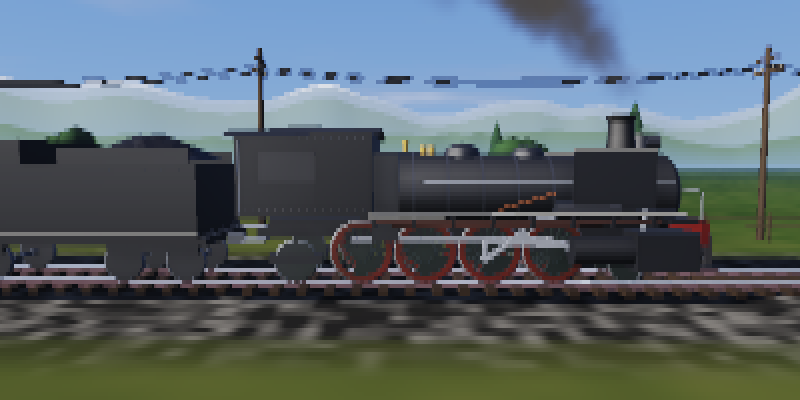
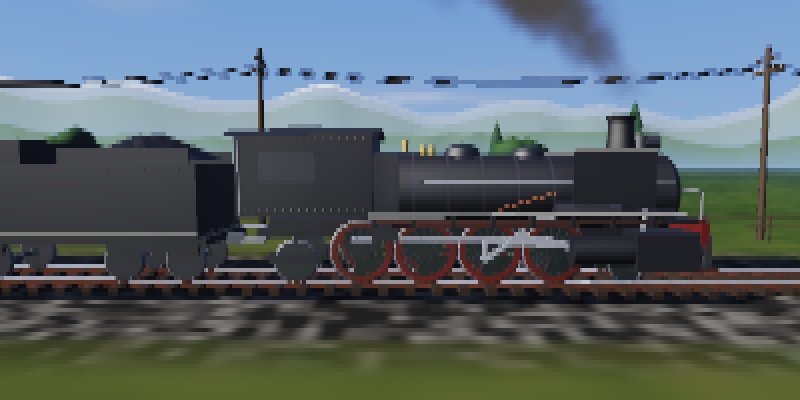
陰影を画素ごとに解く
頂点で 3 回だけ陰影を解いて間を線形補間していたので、
円筒に多角形の帯が浮き、ハイライトと空の映り込みが面の上を
直線的に伸びていた。ボイラーやドームが多面体に見える原因。

ラスタライザが運ぶ属性を「陰影付け済みの色」から
「ワールド座標・法線・素材色」に変え、画素ごとに陰影を解くようにした。
ボイラーは継ぎ目なく丸くなり、ドームには正しい位置にハイライトが乗る。

画素あたりの手間が増えるので、熱い経路を削った。

- 霧の太陽グローの powf(4) を積に
- 反射方向から空を引くときの powf(0.45) を sqrt に（見た目はほぼ同じ）
- ハイライトは指数が大きく、少し外れればほぼ 0 になるので、
  効かない画素では powf を呼ばない
- 遮蔽（AO）は縦横 1/2 の解像度で解いて補間して戻す。手間が 1/4 になり
  見た目は変わらない（もともとぼかしている）

頂点での陰影付けが無くなった分と合わせ、実測（pty、上限を外した状態）は
200x50 で 31fps → 35fps、100x28 で 75fps → 82fps、320x80 で 38fps → 41fps。
画質を上げながら速くなった。

Claude-Session: https://claude.ai/code/session_018PySZzENc57KMtrjRHMuV5

diff --git a/src/render.rs b/src/render.rs
@@ -145,11 +145,30 @@ fn reject(a: &[f32; 4], b: &[f32; 4], c: &[f32; 4]) -> bool {
         || (a[1] > a[3] && b[1] > b[3] && c[1] > c[3])
 }
 
-/// 頂点を切り出したクリップ空間の一時データ。
+/// クリップ空間の頂点。陰影は画素ごとに解くので、
+/// ここではワールド座標・法線・素材色をそのまま運ぶ。
 #[derive(Clone, Copy)]
 struct ClipV {
     pos: [f32; 4],
+    p: V3,
+    n: V3,
     c: V3,
+}
+
+impl ClipV {
+    #[inline]
+    fn lerp(&self, o: &ClipV, t: f32) -> ClipV {
+        let mut pos = [0.0f32; 4];
+        for k in 0..4 {
+            pos[k] = self.pos[k] + (o.pos[k] - self.pos[k]) * t;
+        }
+        ClipV {
+            pos,
+            p: self.p.lerp(o.p, t),
+            n: self.n.lerp(o.n, t),
+            c: self.c.lerp(o.c, t),
+        }
+    }
 }
 
 /// 陰影付け前に溜めておく三角形。法線の縮退はこの時点で解決済み。
@@ -179,13 +198,20 @@ struct Sprite {
     seed: f32,
 }
 
-/// 画面空間まで落とした三角形。色は 1/w を掛けた遠近補正済みの値。
+/// 画面空間まで落とした三角形。
+/// 属性は 1/w を掛けた空間で補間するため、あらかじめ掛けてある。
 #[derive(Clone, Copy)]
 struct ScreenTri {
     x: [f32; 3],
     y: [f32; 3],
     iw: [f32; 3],
+    /// ワールド座標。
+    p: [V3; 3],
+    /// 法線。
+    n: [V3; 3],
+    /// 素材色。
     c: [V3; 3],
+    mat: Material,
     y0: f32,
     y1: f32,
 }
@@ -423,9 +449,8 @@ impl Renderer {
         }
         let threads = threads();
 
-        // ---- 第 1 段：頂点の陰影付け → 画面空間の三角形へ。
-        let env = self.env;
-        let cam = self.cam_pos;
+        // ---- 第 1 段：近クリップして画面空間へ落とす。
+        // 陰影は画素ごとに解くので、ここでは座標と法線を運ぶだけ。
         let (w, h) = (self.w as f32, self.h as f32);
         let tris = std::mem::take(&mut self.tris);
         let chunk = tris.len().div_ceil(threads).max(1);
@@ -437,19 +462,12 @@ impl Renderer {
                 handles.push(scope.spawn(move || {
                     let mut out: Vec<ScreenTri> = Vec::with_capacity(part.len() + 4);
                     for t in part {
-                        let mut v = [ClipV { pos: [0.0; 4], c: V3::ZERO }; 3];
-                        for i in 0..3 {
-                            // 影の箱は地面用。物体自身に当てると自分の影で真っ黒になる。
-                            let lit =
-                                shade_of(&env, cam, t.p[i], t.n[i], t.c[i], &t.mat, 0.0);
-                            let d = t.p[i] - cam;
-                            let dist = d.len();
-                            v[i] = ClipV {
-                                pos: t.clip[i],
-                                c: fog_of(&env, lit, dist, d / dist.max(1e-6)),
-                            };
-                        }
-                        clip_and_project(&v, w, h, &mut out);
+                        let v = [
+                            ClipV { pos: t.clip[0], p: t.p[0], n: t.n[0], c: t.c[0] },
+                            ClipV { pos: t.clip[1], p: t.p[1], n: t.n[1], c: t.c[1] },
+                            ClipV { pos: t.clip[2], p: t.p[2], n: t.n[2], c: t.c[2] },
+                        ];
+                        clip_and_project(&v, w, h, &t.mat, &mut out);
                     }
                     out
                 }));
@@ -475,6 +493,8 @@ impl Renderer {
 
         let sw = self.w;
         let scr: &[ScreenTri] = &screen;
+        let env = self.env;
+        let cam = self.cam_pos;
         std::thread::scope(|scope| {
             let mut y0 = 0usize;
             let mut idx = 0usize;
@@ -487,10 +507,11 @@ impl Renderer {
                 y0 += band_h;
                 let list: &[u32] = if idx < bucket.len() { &bucket[idx] } else { &[] };
                 idx += 1;
+                let env = &env;
                 scope.spawn(move || {
                     let rows = cc.len() / sw;
                     for &i in list {
-                        raster_band(&scr[i as usize], cc, dd, sw, start, rows);
+                        raster_band(&scr[i as usize], cc, dd, sw, start, rows, env, cam);
                     }
                 });
             }
@@ -654,20 +675,27 @@ impl Renderer {
             depth[y * w + x]
         };
 
+        // 遮蔽はゆるやかにしか変わらないので、縦横 1/2 の解像度で解いて
+        // 最後に補間して戻す。見た目は変わらず手間は 1/4 になる。
+        let (aw, ah) = ((w / 2).max(1), (h / 2).max(1));
         // 円周上に半径を変えて散らした固定パターン。回転で縞を散らす。
         const N: usize = 10;
-        let mut ao = vec![0.0f32; w * h];
-        let band = h.div_ceil(threads()).max(1);
+        let mut ao = vec![V3::ZERO; aw * ah];
+        let band = ah.div_ceil(threads()).max(1);
         std::thread::scope(|scope| {
             let mut y0 = 0usize;
-            for part in ao.chunks_mut(w * band) {
+            for part in ao.chunks_mut(aw * band) {
                 let start = y0;
                 y0 += band;
                 let world = &world;
                 let at = &at;
                 scope.spawn(move || {
                     for (i, out) in part.iter_mut().enumerate() {
-                        let (py, px) = (start + i / w, i % w);
+                        let (ay, ax) = (start + i / aw, i % aw);
+                        let (px, py) = (ax * 2, ay * 2);
+                        if py >= h || px >= w {
+                            continue;
+                        }
                         let dc = depth[py * w + px];
                         if !dc.is_finite() {
                             continue;
@@ -676,13 +704,13 @@ impl Renderer {
                         let p = world(fx, fy, dc);
 
                         // 隣の画素との差から法線を作る。深度が飛ぶ縁では諦める。
-                        let dx = at(px as i64 + 1, py as i64);
-                        let dy = at(px as i64, py as i64 + 1);
+                        let dx = at(px as i64 + 2, py as i64);
+                        let dy = at(px as i64, py as i64 + 2);
                         if !dx.is_finite() || !dy.is_finite() {
                             continue;
                         }
-                        let pu = world(fx + 1.0, fy, dx) - p;
-                        let pv = world(fx, fy + 1.0, dy) - p;
+                        let pu = world(fx + 2.0, fy, dx) - p;
+                        let pv = world(fx, fy + 2.0, dy) - p;
                         let mut n = pv.cross(pu).norm();
                         if n.dot(n) < 0.5 {
                             continue;
@@ -694,7 +722,7 @@ impl Renderer {
 
                         // 半径をワールド単位で決め、画面上の大きさに直す。
                         let ry = radius * (h as f32 * 0.5) / (th * dc.max(0.05));
-                        if ry < 0.7 {
+                        if ry < 1.4 {
                             continue;
                         }
                         let ry = ry.min(h as f32 * 0.12);
@@ -728,29 +756,37 @@ impl Renderer {
                             let fall = 1.0 / (1.0 + (len / radius).powi(2));
                             occ += cosw * fall;
                         }
-                        *out = saturate(occ / N as f32 * 2.6);
+                        *out = V3::splat(saturate(occ / N as f32 * 2.6));
                     }
                 });
             }
         });
 
         // サンプルのばらつきをならす。
-        let mut tmp = vec![V3::ZERO; w * h];
-        let mut a3: Vec<V3> = ao.iter().map(|&v| V3::splat(v)).collect();
-        let rb = (2.0 / pxa).round() as usize;
-        blur_h(&a3, &mut tmp, w, h, rb);
-        blur_v(&tmp, &mut a3, w, h, 2);
+        let mut tmp = vec![V3::ZERO; aw * ah];
+        let rb = (1.0 / pxa).round().max(1.0) as usize;
+        blur_h(&ao, &mut tmp, aw, ah, rb);
+        blur_v(&tmp, &mut ao, aw, ah, 1);
 
+        // 補間して等倍へ戻し、色に掛ける。
         let band = h.div_ceil(threads()).max(1);
-        let src: &[V3] = &a3;
+        let src: &[V3] = &ao;
         std::thread::scope(|scope| {
-            let mut idx = 0usize;
+            let mut ystart = 0usize;
             for part in self.color.chunks_mut(w * band) {
-                let start = idx;
-                idx += w * band;
+                let start = ystart;
+                ystart += band;
                 scope.spawn(move || {
                     for (i, c) in part.iter_mut().enumerate() {
-                        let k = 1.0 - src[start + i].x * strength;
+                        let (y, x) = (start + i / w, i % w);
+                        let fy = (y as f32 * 0.5 - 0.25).clamp(0.0, ah as f32 - 1.001);
+                        let fx = (x as f32 * 0.5 - 0.25).clamp(0.0, aw as f32 - 1.001);
+                        let (y0, ty) = (fy as usize, fy.fract());
+                        let (x0, tx) = (fx as usize, fx.fract());
+                        let (x1, y1) = ((x0 + 1).min(aw - 1), (y0 + 1).min(ah - 1));
+                        let a = src[y0 * aw + x0].lerp(src[y0 * aw + x1], tx);
+                        let b = src[y1 * aw + x0].lerp(src[y1 * aw + x1], tx);
+                        let k = 1.0 - a.lerp(b, ty).x * strength;
                         *c = *c * k.max(0.0);
                     }
                 });
@@ -1115,7 +1151,8 @@ pub fn shadow_of(boxes: &[(V3, V3)], sun: V3, p: V3) -> f32 {
 pub fn fog_of(env: &Env, c: V3, dist: f32, dir: V3) -> V3 {
     let f = 1.0 - (-dist * env.fog_density).exp();
     // 太陽方向の霧はほんのり明るい。
-    let glow = saturate(dir.dot(env.sun_dir)).powf(4.0);
+    let g = saturate(dir.dot(env.sun_dir));
+    let glow = g * g * g * g;
     let fog_col = env.horizon_color.lerp(env.sun_color, glow * 0.5);
     c.lerp(fog_col, f)
 }
@@ -1145,19 +1182,23 @@ pub fn shade_of(
     lit += albedo.mul3(amb) * 0.55;
 
     // Blinn-Phong のハイライト。金属は素材色に着色する。
-    let hv = (e.sun_dir + view).norm();
-    let shin = 2.0 / (m.rough * m.rough + 1e-3) + 2.0;
-    let spec = saturate(n.dot(hv)).powf(shin) * (1.0 - m.rough) * vis * ndl.max(0.0);
     let spec_tint = V3::splat(1.0).lerp(albedo, m.metal);
-    lit += spec_tint.mul3(e.sun_color) * (spec * (0.32 + m.metal * 0.85));
+    let hv = (e.sun_dir + view).norm();
+    let ndh = saturate(n.dot(hv));
+    let shin = 2.0 / (m.rough * m.rough + 1e-3) + 2.0;
+    // 指数が大きいので、少し外れただけでほぼ 0 になる。そこは計算しない。
+    if ndh * ndh > 0.25 || shin < 12.0 {
+        let spec = ndh.powf(shin) * (1.0 - m.rough) * vis * ndl.max(0.0);
+        lit += spec_tint.mul3(e.sun_color) * (spec * (0.32 + m.metal * 0.85));
+    }
 
     // 空と地面の映り込み。黒い車体に立体感を与えるのはほぼこれ。
     let refl = n * (2.0 * n.dot(view)) - view;
     let ry = refl.y;
     let env_col = if ry >= 0.0 {
-        e.horizon_color.lerp(e.zenith_color, saturate(ry).powf(0.45))
+        e.horizon_color.lerp(e.zenith_color, saturate(ry).sqrt())
     } else {
-        e.horizon_color.lerp(e.ground_color, saturate(-ry).powf(0.45))
+        e.horizon_color.lerp(e.ground_color, saturate(-ry).sqrt())
     };
     // ざらついた面ほど反射はぼやけ、彩度も落ちる。
     let env_lum = env_col.x * 0.2126 + env_col.y * 0.7152 + env_col.z * 0.0722;
@@ -1241,7 +1282,7 @@ fn blur_v(src: &[V3], dst: &mut [V3], w: usize, h: usize, r: usize) {
 }
 
 /// 近クリップ面で切り、残りを扇状に分割して画面空間へ落とす。
-fn clip_and_project(v: &[ClipV; 3], w: f32, h: f32, out: &mut Vec<ScreenTri>) {
+fn clip_and_project(v: &[ClipV; 3], w: f32, h: f32, mat: &Material, out: &mut Vec<ScreenTri>) {
     const NEAR_W: f32 = 0.05;
     let inside = |x: &ClipV| x.pos[3] > NEAR_W;
     let n_in = v.iter().filter(|x| inside(x)).count();
@@ -1249,12 +1290,13 @@ fn clip_and_project(v: &[ClipV; 3], w: f32, h: f32, out: &mut Vec<ScreenTri>) {
         return;
     }
     if n_in == 3 {
-        if let Some(t) = project(&v[0], &v[1], &v[2], w, h) {
+        if let Some(t) = project(&v[0], &v[1], &v[2], w, h, mat) {
             out.push(t);
         }
         return;
     }
-    let mut poly: [ClipV; 4] = [ClipV { pos: [0.0; 4], c: V3::ZERO }; 4];
+    let zero = ClipV { pos: [0.0; 4], p: V3::ZERO, n: V3::ZERO, c: V3::ZERO };
+    let mut poly: [ClipV; 4] = [zero; 4];
     let mut n = 0usize;
     for i in 0..3 {
         let cur = v[i];
@@ -1266,23 +1308,19 @@ fn clip_and_project(v: &[ClipV; 3], w: f32, h: f32, out: &mut Vec<ScreenTri>) {
         }
         if ci != ni {
             let t = (NEAR_W - cur.pos[3]) / (nxt.pos[3] - cur.pos[3]);
-            let mut p = [0.0f32; 4];
-            for k in 0..4 {
-                p[k] = cur.pos[k] + (nxt.pos[k] - cur.pos[k]) * t;
-            }
-            poly[n] = ClipV { pos: p, c: cur.c.lerp(nxt.c, t) };
+            poly[n] = cur.lerp(&nxt, t);
             n += 1;
         }
     }
     for i in 1..n.saturating_sub(1) {
-        if let Some(t) = project(&poly[0], &poly[i], &poly[i + 1], w, h) {
+        if let Some(t) = project(&poly[0], &poly[i], &poly[i + 1], w, h, mat) {
             out.push(t);
         }
     }
 }
 
 /// クリップ空間 → 画面空間。面積がゼロなら捨てる。
-fn project(a: &ClipV, b: &ClipV, c: &ClipV, w: f32, h: f32) -> Option<ScreenTri> {
+fn project(a: &ClipV, b: &ClipV, c: &ClipV, w: f32, h: f32, mat: &Material) -> Option<ScreenTri> {
     let sp = |v: &ClipV| -> (f32, f32, f32) {
         let iw = 1.0 / v.pos[3];
         (
@@ -1302,14 +1340,20 @@ fn project(a: &ClipV, b: &ClipV, c: &ClipV, w: f32, h: f32) -> Option<ScreenTri>
         x: [x0, x1, x2],
         y: [y0, y1, y2],
         iw: [w0, w1, w2],
-        // 遠近補正のために色は 1/w を掛けた空間で補間する。
+        // 遠近補正のため、属性は 1/w を掛けた空間で補間する。
+        p: [a.p * w0, b.p * w1, c.p * w2],
+        n: [a.n * w0, b.n * w1, c.n * w2],
         c: [a.c * w0, b.c * w1, c.c * w2],
+        mat: *mat,
         y0: y0.min(y1).min(y2),
         y1: y0.max(y1).max(y2),
     })
 }
 
 /// 1 本の横帯だけを塗る。`buf`/`depth` は帯の先頭からのスライス。
+/// 陰影は画素ごとに解く。頂点で解いて補間するより高いが、
+/// ハイライトと映り込みが面の上で正しく曲がる。
+#[allow(clippy::too_many_arguments)]
 fn raster_band(
     t: &ScreenTri,
     buf: &mut [V3],
@@ -1317,14 +1361,16 @@ fn raster_band(
     w: usize,
     band_y0: usize,
     band_rows: usize,
+    env: &Env,
+    cam: V3,
 ) {
     let (x0, x1, x2) = (t.x[0], t.x[1], t.x[2]);
     let (y0, y1, y2) = (t.y[0], t.y[1], t.y[2]);
     let area = (x1 - x0) * (y2 - y0) - (x2 - x0) * (y1 - y0);
     let inv_area = 1.0 / area;
 
-    let min_x = t.x[0].min(x1).min(x2).floor().max(0.0) as usize;
-    let max_x = (t.x[0].max(x1).max(x2).ceil() as i64).min(w as i64 - 1);
+    let min_x = x0.min(x1).min(x2).floor().max(0.0) as usize;
+    let max_x = (x0.max(x1).max(x2).ceil() as i64).min(w as i64 - 1);
     if max_x < 0 || min_x >= w {
         return;
     }
@@ -1334,7 +1380,6 @@ fn raster_band(
         return;
     }
 
-    let (ca, cb, cc) = (t.c[0], t.c[1], t.c[2]);
     let (w0, w1, w2) = (t.iw[0], t.iw[1], t.iw[2]);
 
     for py in lo..=(hi as usize) {
@@ -1364,8 +1409,18 @@ fn raster_band(
             if d >= depth[idx] {
                 continue;
             }
+
+            // 遠近補正した属性を戻す。
+            let p = (t.p[0] * l0 + t.p[1] * l1 + t.p[2] * l2) * d;
+            let n = (t.n[0] * l0 + t.n[1] * l1 + t.n[2] * l2) * d;
+            let alb = (t.c[0] * l0 + t.c[1] * l1 + t.c[2] * l2) * d;
+
+            // 影の箱は地面用。物体自身に当てると自分の影で真っ黒になる。
+            let lit = shade_of(env, cam, p, n.norm(), alb, &t.mat, 0.0);
+            let dv = p - cam;
+            let dist = dv.len();
             depth[idx] = d;
-            buf[idx] = (ca * l0 + cb * l1 + cc * l2) * d;
+            buf[idx] = fog_of(env, lit, dist, dv / dist.max(1e-6));
         }
     }
 }
